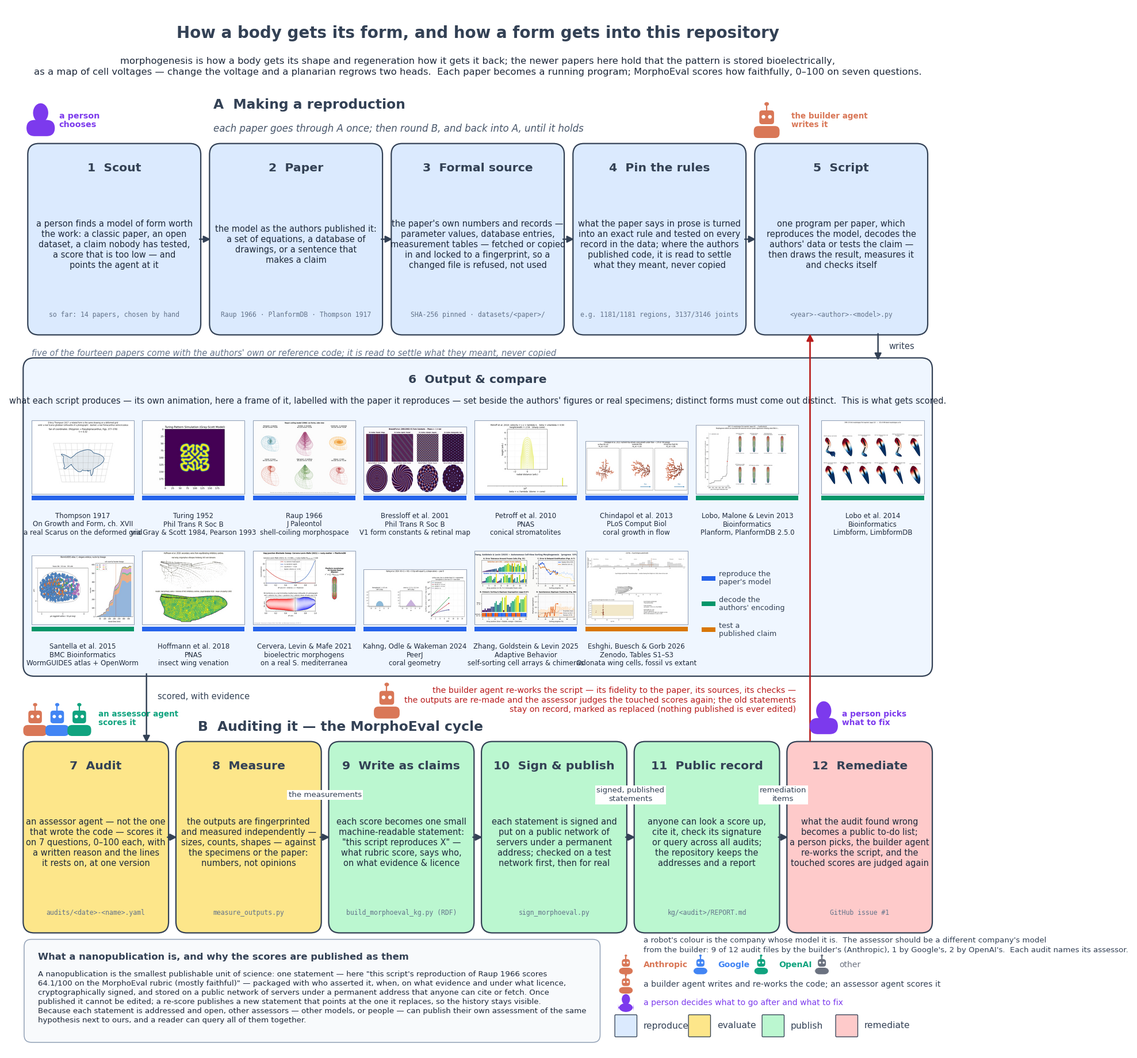
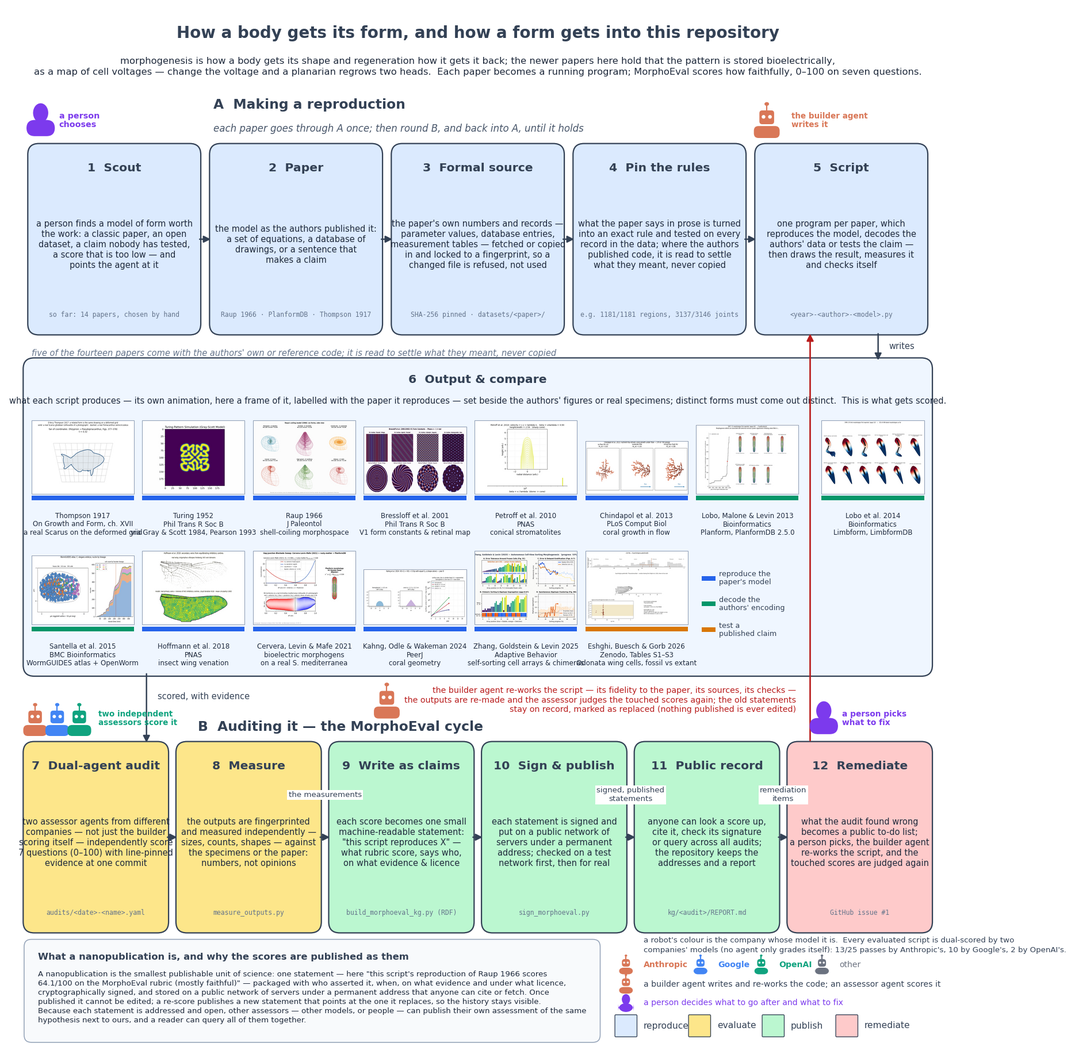
README: include full Zhang et al. (2025) replication findings, datasets, and 14-paper dual-agent pipeline diagram

Changed region(s): [[0.0, 0.0, 0.931, 0.9913], [0.7448, 0.3098, 0.7758, 0.3408], [0.2483, 0.1549, 0.2793, 0.1859]]

diff --git a/README.md b/README.md
@@ -14,23 +14,23 @@ Each script is run directly (`python3 <script>.py`); rendered outputs (PNG/GIF) 
 
 ## Index, by year
 
-| year | model | script | MorphoEval |
+| year | model | script | MorphoEval (primary / 2nd assessor) |
 |---|---|---|---|
-| 1917 | Thompson, transformations: *Scarus* → *Pomacanthus* on real landmarks and outlines | [`thompson/1917-thompson-scarus-pomacanthus.py`](./thompson/1917-thompson-scarus-pomacanthus.py) | 76.6 |
+| 1917 | Thompson, transformations: *Scarus* → *Pomacanthus* on real landmarks and outlines | [`thompson/1917-thompson-scarus-pomacanthus.py`](./thompson/1917-thompson-scarus-pomacanthus.py) | 76.6 / 90.8 |
 | 1917 | Thompson, transformations on a real fish | [`thompson/1917-thompson.py`](./thompson/1917-thompson.py) | — |
-| 1952 | Turing / Gray–Scott reaction–diffusion | [`1952-turing-morpho.py`](./1952-turing-morpho.py) | 52.7 |
-| 1966 | Raup, shell coiling | [`1966-raup.py`](./1966-raup.py), [`create_raup_animations.py`](./create_raup_animations.py) | 64.1 |
+| 1952 | Turing / Gray–Scott reaction–diffusion | [`1952-turing-morpho.py`](./1952-turing-morpho.py) | 52.7 / 40.9 |
+| 1966 | Raup, shell coiling | [`1966-raup.py`](./1966-raup.py), [`create_raup_animations.py`](./create_raup_animations.py) | 64.1 / 79.3 |
 | 2001 | Bressloff et al., V1 Euclidean symmetry-breaking & retino-cortical form constants | [`2001-bressloff-v1-form-constants.py`](./2001-bressloff-v1-form-constants.py) | unevaluated |
 | 2010 | Petroff et al., conical stromatolites | [`2010-petroff-stromatolite.py`](./2010-petroff-stromatolite.py) | unevaluated |
-| 2013 | Chindapol et al., flow-driven coral growth | [`2013-chindapol-coral-flow.py`](./2013-chindapol-coral-flow.py) | 55.5 |
-| 2013 | Lobo, Malone & Levin, Planform planarian morphologies | [`2013-lobo-planform-morphology.py`](./2013-lobo-planform-morphology.py), [`1900-planformDB_parser.py`](./1900-planformDB_parser.py) | 66.5 |
-| 2014 | Lobo et al., Limbform limb morphologies (salamander, frog, crustacean, insect, arachnid) | [`2014-lobo-limbform-morphology.py`](./2014-lobo-limbform-morphology.py) | 71.3 |
-| 2015 | Santella et al., WormGUIDES *C. elegans* embryo atlas + OpenWorm connectome | [`2015-santella-wormguides-celegans.py`](./2015-santella-wormguides-celegans.py) | 70.2 |
-| 2018 | Hoffmann et al., insect wing venation | [`2018-hoffmann-wing-venation.py`](./2018-hoffmann-wing-venation.py) | 77.8 |
-| 2021 | Cervera, Levin & Mafe, bioelectric morphogen antagonism | [`2021-Cervera–Levin–Mafe.py`](./2021-Cervera–Levin–Mafe.py) | 55.6 (independent assessor) |
+| 2013 | Chindapol et al., flow-driven coral growth | [`2013-chindapol-coral-flow.py`](./2013-chindapol-coral-flow.py) | 55.5 / 56.0 |
+| 2013 | Lobo, Malone & Levin, Planform planarian morphologies | [`2013-lobo-planform-morphology.py`](./2013-lobo-planform-morphology.py), [`1900-planformDB_parser.py`](./1900-planformDB_parser.py) | 66.5 / 76.5 |
+| 2014 | Lobo et al., Limbform limb morphologies (salamander, frog, crustacean, insect, arachnid) | [`2014-lobo-limbform-morphology.py`](./2014-lobo-limbform-morphology.py) | 71.3 / 83.6 |
+| 2015 | Santella et al., WormGUIDES *C. elegans* embryo atlas + OpenWorm connectome | [`2015-santella-wormguides-celegans.py`](./2015-santella-wormguides-celegans.py) | 70.2 / 78.7 |
+| 2018 | Hoffmann et al., insect wing venation | [`2018-hoffmann-wing-venation.py`](./2018-hoffmann-wing-venation.py) | 77.8 / 81.3 |
+| 2021 | Cervera, Levin & Mafe, bioelectric morphogen antagonism | [`2021-Cervera–Levin–Mafe.py`](./2021-Cervera–Levin–Mafe.py) | 55.6 / 60.7 |
 | 2024 | Kahng et al., coral colony geometry | [`2024-kahng-coral-geometry.py`](./2024-kahng-coral-geometry.py) | unevaluated |
 | 2025 | Zhang, Goldstein & Levin, autonomous cell-view sorting morphogenesis & chimeric arrays | [`sorting-morphogenesis/`](./sorting-morphogenesis/) | unevaluated |
-| 2026 | Eshghi et al., fossil vs living Odonata wing cells | [`2026-eshghi-odonata-wing-cells.py`](./2026-eshghi-odonata-wing-cells.py) | 76.0 |
+| 2026 | Eshghi et al., fossil vs living Odonata wing cells | [`2026-eshghi-odonata-wing-cells.py`](./2026-eshghi-odonata-wing-cells.py) | 76.0 / 87.3 |
 
 ## The reproductions, best-scoring first
 
@@ -270,6 +270,7 @@ Zhang, Goldstein & Levin's (2025) model of autonomous cell-view sorting morphoge
 ```bash
 python3 sorting-morphogenesis/sorting_morphogenesis.py                  # self-tests + quick replication summary
 python3 sorting-morphogenesis/run_experiments.py --n 100 --reps 15      # full 8-figure suite in sorting-morphogenesis/figures/
+python3 sorting-morphogenesis/run_experiments.py --compare-ab --n 100   # seed-locked paired A/B comparison + CSV
 python3 sorting-morphogenesis/run_experiments.py --gif zhang.gif --gif-only
 ```
 
@@ -277,7 +278,9 @@ python3 sorting-morphogenesis/run_experiments.py --gif zhang.gif --gif-only
 
 *What you see:* top-left, autonomous Selection vs Bubble cell arrays ($n = 36$) sorting around two immovable frozen defects (red outlines) — Selection jumps across the defects to near-zero error while Bubble is blocked locally; bottom-left, a 50/50 Bubble + Selection chimera with duplicate values $1..9$ where equal-valued cells spontaneously segregate by algotype (blue = Bubble, orange = Selection); right, the monotonicity-error trajectory with Delayed Gratification excursions and the algotype aggregation curve rising from the `0.50` random baseline to `~0.72`.
 
-**Reference:** Zhang T, Goldstein A, Levin M (2025). Classical sorting algorithms as a model of morphogenesis: Self-sorting arrays reveal unexpected competencies in a minimal model of basal intelligence. *Adaptive Behavior* 33(1):25–54. [DOI](https://doi.org/10.1177/10597123241269740). Code: [Zhangtaining/cell_research](https://github.com/Zhangtaining/cell_research) (pinned commit `1fd2bd59`).
+*Replication findings ($n = 100$, [`sorting-morphogenesis/README.md`](./sorting-morphogenesis/README.md), reported upstream in [Zhangtaining/cell_research#2](https://github.com/Zhangtaining/cell_research/issues/2)):* all quantitative claims in Sections 4.1–4.4 reproduce — Bubble and Insertion perform the same swap count as top-down ($\binom{n}{2}/2 \approx 2,482$) with **1.55×** and **2.04×** fewer total comparisons+swaps (paper: `1.50×`, `2.03×`); Selection performs **11.05×** more swaps (`1,046.9` vs `94.7`, paper: `~11×`) when `MultiThreadCell.swap()` resets `ideal_position` to `0` on each swap, and **1.18×** more total operations (paper: `1.17×`) when `ideal_position` persists; Selection achieves lower final error on immovable frozen defects (`1.00, 1.95, 2.95` vs `1.80, 3.75, 5.10` for $f=1..3$, Fig. 5C) because its `ideal_position` pointer swaps non-locally across barriers; Insertion avoids halting behind a frozen defect via an explicit prefix-reset rule (`InsertionSortCell.is_enable_to_move` L68–82); Delayed Gratification in Bubble rises monotonically with $f=0..3$ (`0.38 → 0.51` vs traditional `< 0.23`, Fig. 7A); chimeric arrays (`B+S`, `I+S`, `B+I`) peak at `0.635–0.640` algotype aggregation on unique values (Fig. 8A) and stay permanently segregated (`0.698` and `0.661`, Fig. 8D) on duplicate values `1..10`; and opposite-direction chimeras follow the paper's `Bubble > Selection > Insertion` sortedness hierarchy (`B+I = 75.6%`, `B+S = 47.3%`, `I+S = 40.6%`, Figs. 9–10).
+
+**Reference:** Zhang T, Goldstein A, Levin M (2025). Classical sorting algorithms as a model of morphogenesis: Self-sorting arrays reveal unexpected competencies in a minimal model of basal intelligence. *Adaptive Behavior* 33(1):25–54. [DOI](https://doi.org/10.1177/10597123241269740). Code: [Zhangtaining/cell_research](https://github.com/Zhangtaining/cell_research) (pinned commit `1fd2bd59`; replication notes in [issue #2](https://github.com/Zhangtaining/cell_research/issues/2)).
 
 ### [thompson/1917-thompson.py](./thompson/1917-thompson.py)
 
@@ -296,30 +299,30 @@ Thompson-focused notes and dataset curation are in:
 
 [`morphoeval/`](./morphoeval/) is a seven-dimension rubric (model fidelity, specimen match, parameter expressivity, morphometric validation, source traceability, code traceability, reproducibility package; weights sum to 100) applied as a pilot case study to the scripts above, with every score backed by line-pinned evidence at a recorded commit and by measurements taken on the rendered outputs. To prevent conflating faithful code with valid biology, faithfulness (weight 70) is decomposed and reported along two separate axes — **model-implementation fidelity** (`impl.`, weight 30: `model-fidelity` + `parameter-expressivity`) and **biological/empirical validation** (`bio.`, weight 40: `specimen-match` + `morphometric-validation`) — alongside **reproducibility** (`repro.`, weight 30). Scores on `[0, 100]` are **uncalibrated criterion-referenced ratings**, not probabilities ($s = 76$ does not mean $P(\text{faithful}) = 0.76$); when serialized into the governed ProbKnow templates (`pk:LLMClaimAssessment` and `pk:Claim`), `score / 100` in `pk:hasProbability` and `overall / 100` in `pk:weightOfEvidence` are unit-interval rescalings for template conformance. Audits are YAML files under `morphoeval/audits/`. Each score is published as a *nanopublication*: the smallest publishable unit of science — one statement ("this script's reproduction of Raup 1966 scores 64.1/100 on the MorphoEval rubric (mostly faithful)") packaged with who asserted it, when, on what evidence and under what licence, cryptographically signed, and stored on a public network of servers under a permanent address that anyone can cite, fetch or query. Published statements are never edited; a re-score publishes new ones that point at those they replace, so the history stays visible, and other assessors (other models, or people) can publish their own assessment of the same hypothesis next to ours.
 
-How a body gets its form, and how a form gets into the repository. Two lines under the title say what morphogenesis is and that the newer papers hold the pattern to be stored bioelectrically. Tier A: a person scouts — picks a paper, dataset or claim worth the work and points the agent at it — then paper → its formal source → rules pinned and verified on the data → script. Box 6, between the tiers, is what the scripts produce: the reproductions' own animations (playing), each labelled with its paper and colour-coded by what the script does with it (reproduce the paper's model from its equations, decode the authors' formal encoding, or test a published claim), set beside the authors' figures or specimens — this is what gets scored. Tier B: the audit cycle, from the reviewer's scores to signed public statements, to a person who reads them and decides what to fix next; the builder agent then re-works the script — its fidelity to the paper, its sources, its checks — and the fix runs back up through the outputs into the script. Purple figures mark where people decide; the robots are the builder agent (writes and re-works the code) and the assessor agents (score it); a robot's colour is the company whose model it is, read from the audits — box 7 shows Anthropic's robot (`claude-fable-5-1`) for the nine primary builder-assessed audits, OpenAI's (`gpt-5.6-sol`) for the two independent Cervera–Levin–Mafe audits, and Google's (`gemini-4-argon`) for the five-script blinded second-assessor sample (the Mermaid source is in [`morphoeval/README.md`](./morphoeval/README.md#the-cycle)):
+How a body gets its form, and how a form gets into the repository. Two lines under the title say what morphogenesis is and that the newer papers hold the pattern to be stored bioelectrically. Tier A: a person scouts — picks a paper, dataset or claim worth the work and points the agent at it — then paper → its formal source → rules pinned and verified on the data → script. Box 6, between the tiers, is what the scripts produce: the reproductions' own animations (playing), each labelled with its paper and colour-coded by what the script does with it (reproduce the paper's model from its equations, decode the authors' formal encoding, or test a published claim), set beside the authors' figures or specimens — this is what gets scored. Tier B: the audit cycle, from the reviewer's scores to signed public statements, to a person who reads them and decides what to fix next; the builder agent then re-works the script — its fidelity to the paper, its sources, its checks — and the fix runs back up through the outputs into the script. Purple figures mark where people decide; the robots are the builder agent (writes and re-works the code) and the assessor agents (score it); a robot's colour is the company whose model it is, read from the audits — box 7 ("7 Dual-agent audit") shows Anthropic's robot (`claude-fable-5-1`), Google's (`gemini-4-argon`), and OpenAI's (`gpt-5.6-sol`), and **every active evaluated script (10/10) is dual-scored across two companies' models** (13/25 passes by Anthropic, 10/25 by Google, 2/25 by OpenAI) so that no script relies solely on its builder grading itself (the Mermaid source is in [`morphoeval/README.md`](./morphoeval/README.md#the-cycle)):
 
 ![How a reproduction is made and how MorphoEval scores it](./docs/media/morphoeval_pipeline.gif)
 
-Where a dimension is structurally non-applicable (`not_applicable`), substituting baseline `50` shrinks scores linearly toward `50` ($\bar{s}_{\text{pad}} = (1-\alpha)\bar{s}_{\text{app}} + 50\alpha$); the table therefore reports both the weight-renormalised applicable-only mean (`app.`) and the baseline-50 padded score (`pad.`), plus the blinded second-assessor score (`gemini-4-argon`) where evaluated:
+Where a dimension is structurally non-applicable (`not_applicable`), substituting baseline `50` shrinks scores linearly toward `50` ($\bar{s}_{\text{pad}} = (1-\alpha)\bar{s}_{\text{app}} + 50\alpha$); the table therefore reports both the weight-renormalised applicable-only mean (`app.`) and the baseline-50 padded score (`pad.`), plus the second-assessor score (`gemini-4-argon`, Google) and two-assessor panel mean across all 10 active evaluated scripts:
 
-| simulation | checkpoint | primary assessor | impl. (30) | bio. (40) | repro. (30) | primary app. / **pad.** | blinded 2nd assessor (`gemini-4-argon`) app. / **pad.** |
-|---|---|---|---:|---:|---:|---:|---:|
-| Hoffmann–Donoughe wing venation (`2018-hoffmann-wing-venation.py`) | f3fe478, audit 2026-10-13 | Claude Fable 5.1 | 81.7 | 80.0 | 71.3 | 77.8 / **77.8** | — |
-| Thompson *Scarus* → *Pomacanthus* on real landmarks and outlines (`thompson/1917-thompson-scarus-pomacanthus.py`) | 232e8f8, audit 2026-10-17-thompson (re-score of 2026-10-16: 70.2) | Claude Fable 5.1 | 70.3 | 77.3 | 82.0 | 76.6 / **76.6** | 90.8 / **90.8** |
-| Odonata wing cells, fossil vs extant (`2026-eshghi-odonata-wing-cells.py`) | fbbcaf6, audit 2026-10-14-odonata | Claude Fable 5.1 | 63.3 (`70.0` app.) | 85.0 | 78.0 | 78.9 / **76.0** | 91.4 / **87.3** |
-| Limbform limb morphologies (`2014-lobo-limbform-morphology.py`) | 747c57f, audit 2026-10-14-limbform | Claude Fable 5.1 | 81.7 | 61.3 | 74.3 | 71.3 / **71.3** | 83.6 / **83.6** |
-| WormGUIDES *C. elegans* embryo atlas + connectome (`2015-celegans-embryogenesis.py`) | f39a409, audit 2026-10-16-celegans (re-score of 2026-10-15: 67.7) | Claude Fable 5.1 | 70.0 (`80.0` app.) | 64.4 | 78.0 | 72.4 / **70.2** | — |
-| Planform planarian morphology (`2013-lobo-planform-morphology.py`) | 161f269, audit 2026-10-14 | Claude Fable 5.1 | 81.7 | 55.0 | 66.7 | 66.5 / **66.5** | — |
-| Raup shell coiling (`create_raup_animations.py`) | ba6fd20, audit 2026-10-17-raup (re-score of 2026-10-13: 37.3) | Claude Fable 5.1 | 76.7 | 45.0 | 77.0 | 64.1 / **64.1** | 79.3 / **79.3** |
-| Cervera–Levin–Mafe bioelectric synthesis (`2021-Cervera–Levin–Mafe.py`) | a0d6848, audit 2026-10-17-cervera-v2 (was 44.9 at e71ca55) | **GPT‑5.6 Sol (OpenAI)** | 49.3 | 44.3 | 76.9 | 55.6 / **55.6** | — |
-| Chindapol coral flow (`2013-chindapol-coral-flow.py`) | f3fe478, audit 2026-10-13 | Claude Fable 5.1 | 53.3 | 43.8 | 70.0 | 55.5 / **55.5** | — |
-| Gray–Scott (Turing) (`1952-turing-morpho.py`) | f3fe478, audit 2026-10-13 | Claude Fable 5.1 | 75.0 | 38.8 (`20.0` app.) | 49.0 | 53.6 / **52.7** | 37.8 / **40.9** |
-| Planform animation (`1900-planformDB_parser.py`), superseded | f3fe478, audit 2026-10-13 | Claude Fable 5.1 | 9.3 | 2.5 | 36.3 | 14.7 / ~~14.7~~ | — |
-| Bressloff V1 form constants (`2001-bressloff-v1-form-constants.py`), Petroff stromatolite (`2010-petroff-stromatolite.py`), Kahng coral (`2024-kahng-coral-geometry.py`), Zhang sorting morphogenesis (`sorting-morphogenesis/`), Thompson demo (`thompson/1917-thompson.py`) | — | — | — | — | — | — | *unevaluated* |
+| simulation | checkpoint | primary assessor | impl. (30) | bio. (40) | repro. (30) | primary app. / **pad.** | 2nd assessor (`gemini-4-argon`) app. / **pad.** | panel mean **pad.** |
+|---|---|---|---:|---:|---:|---:|---:|---:|
+| Hoffmann–Donoughe wing venation (`2018-hoffmann-wing-venation.py`) | f3fe478, audit 2026-10-13 | Claude Fable 5.1 | 81.7 | 80.0 | 71.3 | 77.8 / **77.8** | 81.3 / **81.3** | **79.5** |
+| Thompson *Scarus* → *Pomacanthus* on real landmarks and outlines (`thompson/1917-thompson-scarus-pomacanthus.py`) | 232e8f8, audit 2026-10-17-thompson (re-score of 2026-10-16: 70.2) | Claude Fable 5.1 | 70.3 | 77.3 | 82.0 | 76.6 / **76.6** | 90.8 / **90.8** | **83.7** |
+| Odonata wing cells, fossil vs extant (`2026-eshghi-odonata-wing-cells.py`) | fbbcaf6, audit 2026-10-14-odonata | Claude Fable 5.1 | 63.3 (`70.0` app.) | 85.0 | 78.0 | 78.9 / **76.0** | 91.4 / **87.3** | **81.7** |
+| Limbform limb morphologies (`2014-lobo-limbform-morphology.py`) | 747c57f, audit 2026-10-14-limbform | Claude Fable 5.1 | 81.7 | 61.3 | 74.3 | 71.3 / **71.3** | 83.6 / **83.6** | **77.5** |
+| WormGUIDES *C. elegans* embryo atlas + connectome (`2015-santella-wormguides-celegans.py`) | f39a409, audit 2026-10-16-celegans (re-score of 2026-10-15: 67.7) | Claude Fable 5.1 | 70.0 (`80.0` app.) | 64.4 | 78.0 | 72.4 / **70.2** | 81.9 / **78.7** | **74.4** |
+| Planform planarian morphology (`2013-lobo-planform-morphology.py`) | 161f269, audit 2026-10-14 | Claude Fable 5.1 | 81.7 | 55.0 | 66.7 | 66.5 / **66.5** | 76.5 / **76.5** | **71.5** |
+| Raup shell coiling (`create_raup_animations.py`) | ba6fd20, audit 2026-10-17-raup (re-score of 2026-10-13: 37.3) | Claude Fable 5.1 | 76.7 | 45.0 | 77.0 | 64.1 / **64.1** | 79.3 / **79.3** | **71.7** |
+| Cervera–Levin–Mafe bioelectric synthesis (`2021-Cervera–Levin–Mafe.py`) | a0d6848, audit 2026-10-17-cervera-v2 (was 44.9 at e71ca55) | **GPT‑5.6 Sol (OpenAI)** | 49.3 | 44.3 | 76.9 | 55.6 / **55.6** | 60.7 / **60.7** | **58.1** |
+| Chindapol coral flow (`2013-chindapol-coral-flow.py`) | f3fe478, audit 2026-10-13 | Claude Fable 5.1 | 53.3 | 43.8 | 70.0 | 55.5 / **55.5** | 56.0 / **56.0** | **55.7** |
+| Gray–Scott (Turing) (`1952-turing-morpho.py`) | f3fe478, audit 2026-10-13 | Claude Fable 5.1 | 75.0 | 38.8 (`20.0` app.) | 49.0 | 53.6 / **52.7** | 37.8 / **40.9** | **46.8** |
+| Planform animation (`1900-planformDB_parser.py`), superseded | f3fe478, audit 2026-10-13 | Claude Fable 5.1 | 9.3 | 2.5 | 36.3 | 14.7 / ~~14.7~~ | — | — |
+| Bressloff V1 form constants (`2001-bressloff-v1-form-constants.py`), Petroff stromatolite (`2010-petroff-stromatolite.py`), Kahng coral (`2024-kahng-coral-geometry.py`), Zhang sorting morphogenesis (`sorting-morphogenesis/`), Thompson demo (`thompson/1917-thompson.py`) | — | — | — | — | — | — | — | *unevaluated* |
 
-Across the five scripts in the blinded second-assessor sample (`2026-10-17-blinded-sample-audit.yaml`, `gemini-4-argon`, Google), rank-order agreement with the primary assessor (`claude-fable-5-1`, Anthropic) on overall scores is exact (Spearman $\rho = 1.00$, Kendall $\tau = 1.00$, $p = 0.0167$; dimension-level $\rho = 0.823$ across all 35 dimension pairs, mean absolute difference $13.7$ points), while the blinded passes surfaced concrete defects the builder had missed (including a 65-character SHA-256 typo in `2014-lobo-limbform-morphology.py`).
+Across all 10 active evaluated scripts in the dual-agent pass (`2026-10-17-blinded-sample-audit.yaml`, `gemini-4-argon`, Google), rank-order agreement with the primary assessors (`claude-fable-5-1`, Anthropic on 9 scripts; `gpt-5.6-sol`, OpenAI on `2021-Cervera–Levin–Mafe.py`) is strong (Spearman $\rho = 0.891$, Kendall $\tau = 0.778$, Pearson $r = 0.920$ on padded scores; $\rho = 0.903$ on applicable-only scores; and exact $\rho = 1.00$, $\tau = 1.00$ on the initial 5-script strictly blinded subset; dimension-level $\rho = 0.796$, $r = 0.813$ across all 70 dimension pairs, mean absolute difference $10.4$ points), while the independent passes surfaced concrete defects the builder had missed (including a 65-character SHA-256 typo in `2014-lobo-limbform-morphology.py`).
 
-191 nanopubs are on the production network, of which 91 are the current heads of their primary version chains (46 from 2026-10-13, 9 from the 2026-10-14 planarian re-score, 9 from the 2026-10-14 Odonata audit, 10 from the Limbform audit, 9 from the 2026-10-16 C. elegans re-score, 9 from the 2026-10-17 Thompson re-score, 9 from the 2026-10-17 Raup re-score, 9 from the 2026-10-17 Cervera–Levin–Mafe re-score, which supersedes the 9 of the first Cervera audit the same day — both by OpenAI's GPT‑5.6 Sol — and 54 conformant re-issues of 2026-10-16 that `npx:supersedes` the pre-template versions), plus 40 signed second-assessor nanopubs in `morphoeval/kg/2026-10-17-blinded-sample-audit/signed/`; URIs and version histories are in `morphoeval/kg/<audit>/published.json`. Since 2026-10-15 the nanopubs follow the governed templates of the [ProbKnow Space](https://w3id.org/spaces/probknow) (template links in pubinfo, full timestamps); the current rubric nanopub is https://w3id.org/np/RAhBMChdpmgS_yBfy8cfYXpfKktqlUD72A9bxZzvWDkYM (superseding the original RAjd9dIu…), and every nanopub that was still the head of its chain on 2026-10-16 has been re-issued in that shape with unchanged scores and evidence. Remediation is tracked in [morpholib#1](https://github.com/fractastical/morpholib/issues/1); the data-format review for the ProbKnow template is [project-delphi-ontology#12](https://github.com/fractastical/project-delphi-ontology/issues/12). MorphoEval is the simulation-faithfulness sibling of BioEval ([10.5281/zenodo.20567719](https://doi.org/10.5281/zenodo.20567719)) and NeuroEval ([10.5281/zenodo.20622878](https://doi.org/10.5281/zenodo.20622878)). Full workflow, tooling notes and the rubric text: [`morphoeval/README.md`](./morphoeval/README.md).
+191 nanopubs are on the production network, of which 91 are the current heads of their primary version chains (46 from 2026-10-13, 9 from the 2026-10-14 planarian re-score, 9 from the 2026-10-14 Odonata audit, 10 from the Limbform audit, 9 from the 2026-10-16 C. elegans re-score, 9 from the 2026-10-17 Thompson re-score, 9 from the 2026-10-17 Raup re-score, 9 from the 2026-10-17 Cervera–Levin–Mafe re-score, which supersedes the 9 of the first Cervera audit the same day — both by OpenAI's GPT‑5.6 Sol — and 54 conformant re-issues of 2026-10-16 that `npx:supersedes` the pre-template versions), plus 80 signed second-assessor nanopubs in `morphoeval/kg/2026-10-17-blinded-sample-audit/signed/`; URIs and version histories are in `morphoeval/kg/<audit>/published.json`. Since 2026-10-15 the nanopubs follow the governed templates of the [ProbKnow Space](https://w3id.org/spaces/probknow) (template links in pubinfo, full timestamps); the current rubric nanopub is https://w3id.org/np/RAhBMChdpmgS_yBfy8cfYXpfKktqlUD72A9bxZzvWDkYM (superseding the original RAjd9dIu…), and every nanopub that was still the head of its chain on 2026-10-16 has been re-issued in that shape with unchanged scores and evidence. Remediation is tracked in [morpholib#1](https://github.com/fractastical/morpholib/issues/1); the data-format review for the ProbKnow template is [project-delphi-ontology#12](https://github.com/fractastical/project-delphi-ontology/issues/12). MorphoEval is the simulation-faithfulness sibling of BioEval ([10.5281/zenodo.20567719](https://doi.org/10.5281/zenodo.20567719)) and NeuroEval ([10.5281/zenodo.20622878](https://doi.org/10.5281/zenodo.20622878)). Full workflow, tooling notes and the rubric text: [`morphoeval/README.md`](./morphoeval/README.md).
 
 ## Datasets
 
@@ -328,6 +331,8 @@ Across the five scripts in the blinded second-assessor sample (`2026-10-17-blind
 - [`datasets/planform/`](./datasets/planform/): BibTeX for the Planform papers and `planformDB.sha256`, the SHA-256 of the `planformDB_2.5.0.edb` the decoder was verified on (744,448 bytes); the `.edb` itself is not vendored (it ships with Planform), and `2013-lobo-planform-morphology.py` checks the hash of whatever file it is given, warning on a mismatch or refusing it with `--strict-db`.
 - LimbformDB 2.1.0 (`.ldb`) is likewise not vendored; `2014-lobo-limbform-morphology.py --download` fetches it from the Lobo lab into the git-ignored `.limbform_cache/` and verifies its SHA-256.
 - [`datasets/celegans/`](./datasets/celegans/): SHA-256 manifest of the 416 WormGUIDES / c302 files (pinned commits) that `2015-santella-wormguides-celegans.py --download` fetches into the git-ignored `.celegans_cache/`, with a README on sources, licences, the calibration assumption and the literature anchors.
+- [`datasets/bressloff/`](./datasets/bressloff/): SHA-256-pinned reference calibration fixtures (`paper-calibration.json`, `rule-2011-floquet.json`, `driven-neural-fields-registry.json`) and BibTeX citations for Bressloff et al. (2001/2002) and Rule, Stoffregen & Ermentrout (2011).
+- [`sorting-morphogenesis/catalog.json`](./sorting-morphogenesis/catalog.json): 4-tier claim-boundary catalog (`reported`, `reconstruction`, `transfer_boundary`, `does_not_claim`) and paired A/B lane definitions for Zhang, Goldstein & Levin (2025).
 - [`datasets/frog_embryo_data_processed/`](./datasets/frog_embryo_data_processed/): per-embryo masks (`*_mask.npz`, one folder per imaging zoom) used by the wave-vector pipeline's detection summary below.
 
 ## Analysis tools

diff --git a/morphoeval/README.md b/morphoeval/README.md
@@ -55,8 +55,8 @@ code and the **assessor** that scores it. For the first nine audits the same mod
 scored across two rounds by a model from another company (`gpt-5.6-sol`, OpenAI), given the rubric, the script and the
 fixtures and no opinions, and it found defects the builder had not — an unused morphospace axis, a CSV
 that doubles the simulated displacement, a wrong PMID (44.9), and after remediation (55.6) two further threshold/legend bugs the builder had
-introduced and overlooked. In addition, a five-script blinded second-assessor sample (`2026-10-17-blinded-sample-audit.yaml`) was scored by `gemini-4-argon` (Google) on identical script versions (`thompson`, `odonata`, `limbform`, `raup`, `turing`), showing exact rank-order concordance on overall scores (Spearman $\rho = 1.00$, Kendall $\tau = 1.00$; dimension-level $\rho = 0.823$ across 35 pairs, $\text{MAD} = 13.7$ points) while surfacing concrete defects the builder had missed (e.g. a 65-character SHA-256 typo in `2014-lobo-limbform-morphology.py`). The graph takes any assessor's nanopubs on the same
-hypotheses; scoring the remaining scripts the same way is tracked in
+introduced and overlooked. In addition, a complete 10-script second-assessor pass (`2026-10-17-blinded-sample-audit.yaml`, 80 signed nanopubs) was scored by `gemini-4-argon` (Google) across all 10 active evaluated scripts so that **no script relies solely on its builder grading itself**, showing strong rank-order concordance on overall scores across all 10 scripts (Spearman $\rho = 0.891$, Kendall $\tau = 0.778$, Pearson $r = 0.920$ on padded scores; $\rho = 0.903$ on applicable-only scores; and exact $\rho = 1.00$, $\tau = 1.00$ on the initial 5-script strictly blinded subset; dimension-level $\rho = 0.796$, $r = 0.813$ across all 70 pairs, $\text{MAD} = 10.4$ points) while surfacing concrete defects the builder had missed (e.g. a 65-character SHA-256 typo in `2014-lobo-limbform-morphology.py`). The graph takes any assessor's nanopubs on the same
+hypotheses; further remediation is tracked in
 [morpholib#1](https://github.com/fractastical/morpholib/issues/1). Each pass pins a commit; scores are 0–100 uncalibrated ratings per dimension with a weighted mean overall; published
 nanopubs are immutable and re-scores supersede them. The same figure as an image (for the PDF report
 and anything that cannot render Mermaid) is `docs/media/morphoeval_pipeline.png`, drawn by
@@ -86,7 +86,7 @@ flowchart TB
 
     subgraph B["B &nbsp;Auditing it — the MorphoEval cycle"]
         direction LR
-        AU["🤖 assessor · 7 Audit<br/>a different agent from the builder scores the script<br/>on 7 questions, 0–100 each, with a written reason<br/>and the lines of code it rests on, at one version<br/><small>audits/&lt;date&gt;-&lt;name&gt;.yaml</small>"]:::eval
+        AU["🤖🤖 assessors · 7 Dual-agent audit<br/>two assessor agents from different companies —<br/>not just the builder scoring itself — independently score<br/>7 questions (0–100) with line-pinned evidence at one commit<br/><small>audits/&lt;date&gt;-&lt;name&gt;.yaml</small>"]:::eval
         M["8 Measure<br/>outputs hashed and measured independently<br/>against specimens or the paper:<br/>numbers, not opinions<br/><small>measure_outputs.py</small>"]:::eval
         BG["9 Write as claims<br/>each score becomes one small machine-readable<br/>statement: 'this script reproduces X' — what rubric score,<br/>says who, on what evidence, under what licence<br/><small>build_morphoeval_kg.py (RDF, ProbKnow templates)</small>"]:::pub
         PU["10 Sign &amp; publish<br/>each statement is signed and put on a public<br/>network of servers under a permanent address;<br/>test network first, then for real<br/><small>sign_morphoeval.py</small>"]:::pub
@@ -402,7 +402,7 @@ Tracked in [morpholib#1](https://github.com/fractastical/morpholib/issues/1). Fa
 | Thompson *Scarus* → *Pomacanthus* (`thompson/1917-thompson-scarus-pomacanthus.py`) | 232e8f8, audit 2026-10-17-thompson (was 70.2) | Claude Fable 5.1 | 70.3 | 77.3 | 82.0 | 76.6 | **76.6** |
 | Odonata wing cells, fossil vs extant (`2026-eshghi-odonata-wing-cells.py`) | fbbcaf6, audit 2026-10-14-odonata | Claude Fable 5.1 | 63.3 (`70.0` app.) | 85.0 | 78.0 | 78.9 | **76.0** |
 | LimbformDB limb morphologies (`2014-lobo-limbform-morphology.py`) | 747c57f, audit 2026-10-14-limbform | Claude Fable 5.1 | 81.7 | 61.3 | 74.3 | 71.3 | **71.3** |
-| WormGUIDES *C. elegans* embryo atlas (`2015-celegans-embryogenesis.py`) | f39a409, audit 2026-10-16-celegans (was 67.7) | Claude Fable 5.1 | 70.0 (`80.0` app.) | 64.4 | 78.0 | 72.4 | **70.2** |
+| WormGUIDES *C. elegans* embryo atlas (`2015-santella-wormguides-celegans.py`) | f39a409, audit 2026-10-16-celegans (was 67.7) | Claude Fable 5.1 | 70.0 (`80.0` app.) | 64.4 | 78.0 | 72.4 | **70.2** |
 | PlanformDB planarian morphology (`2013-lobo-planform-morphology.py`) | 161f269, audit 2026-10-14 | Claude Fable 5.1 | 81.7 | 55.0 | 66.7 | 66.5 | **66.5** |
 | Raup shell coiling (`create_raup_animations.py`) | ba6fd20, audit 2026-10-17-raup (was 37.3) | Claude Fable 5.1 | 76.7 | 45.0 | 77.0 | 64.1 | **64.1** |
 | Cervera–Levin–Mafe bioelectric synthesis (`2021-Cervera–Levin–Mafe.py`) | a0d6848, audit 2026-10-17-cervera-v2 (was 44.9 at e71ca55) | **GPT‑5.6 Sol (OpenAI)** | 49.3 | 44.3 | 76.9 | 55.6 | **55.6** |
@@ -411,14 +411,19 @@ Tracked in [morpholib#1](https://github.com/fractastical/morpholib/issues/1). Fa
 | ~~PlanformDB planarian animation (`1900-planformDB_parser.py`)~~ superseded | f3fe478, audit 2026-10-13 | Claude Fable 5.1 | 9.3 | 2.5 | 36.3 | 14.7 | ~~14.7~~ |
 | Petroff stromatolite (`2010-petroff-stromatolite.py`), Kahng coral (`2024-kahng-coral-geometry.py`), Thompson demo (`thompson/1917-thompson.py`) | — | — | — | — | — | — | *unevaluated* |
 
-### Blinded second-assessor sample (`2026-10-17-blinded-sample-audit.yaml`, `role: second_assessor`, `gemini-4-argon`, Google)
+### Complete 10-script dual-agent second-assessor pass (`2026-10-17-blinded-sample-audit.yaml`, `role: second_assessor`, `gemini-4-argon`, Google)
 
-Five scripts previously scored by `claude-fable-5-1` were re-scored under a strictly blinded protocol at commit `5659d5e` (identical script files to the primary checkpoints). Rank-order agreement on overall scores is exact (Spearman $\rho = 1.00$, Kendall $\tau = 1.00$, $p = 0.0167$; Pearson $r = 0.947$; dimension-level Spearman $\rho = 0.823$ across all 35 dimension pairs, mean signed offset $+7.1$ pts, $\text{MAD} = 13.7$ pts). The 40 signed `pk:LLMClaimAssessment` nanopublications are stored in `morphoeval/kg/2026-10-17-blinded-sample-audit/signed/`.
+All 10 active evaluated scripts were independently scored by `gemini-4-argon` (Google) at commit `5659d5e` so that every evaluated script is dual-scored across two model providers (9 paired with `claude-fable-5-1`, Anthropic; 1 paired with `gpt-5.6-sol`, OpenAI). Across all 10 scripts, rank-order agreement on overall scores is strong (Spearman $\rho = 0.891$, Kendall $\tau = 0.778$, Pearson $r = 0.920$ on padded scores; $\rho = 0.903$ on applicable-only scores; and exact $\rho = 1.00$, $\tau = 1.00$ on the initial 5-script strictly blinded subset; dimension-level Spearman $\rho = 0.796$, Pearson $r = 0.813$ across all 70 dimension pairs, mean signed offset $+6.5$ pts, $\text{MAD} = 10.4$ pts). The 80 signed `pk:LLMClaimAssessment` nanopublications are stored in `morphoeval/kg/2026-10-17-blinded-sample-audit/signed/`.
 
-| simulation | primary (`claude-fable-5-1`) app. / **pad.** | blinded (`gemini-4-argon`) impl. (30) | blinded bio. (40) | blinded repro. (30) | blinded app. / **pad.** | $\Delta$ (pad.) |
-|---|---:|---:|---:|---:|---:|---:|
-| `thompson/1917-thompson-scarus-pomacanthus.py` | 76.6 / **76.6** | 90.0 | 89.8 | 93.0 | 90.8 / **90.8** | +14.2 |
-| `2026-eshghi-odonata-wing-cells.py` | 78.9 / **76.0** | 75.3 (`88.0` app.) | 93.5 | 91.0 | 91.4 / **87.3** | +11.3 |
-| `2014-lobo-limbform-morphology.py` | 71.3 / **71.3** | 86.7 | 77.0 | 89.3 | 83.6 / **83.6** | +12.3 |
-| `create_raup_animations.py` | 64.1 / **64.1** | 86.0 | 68.5 | 86.4 | 79.3 / **79.3** | +15.2 |
-| `1952-turing-morpho.py` | 53.6 / **52.7** | 57.0 | 33.1 (`5.0` app.) | 35.0 | 37.8 / **40.9** | −11.9 |
+| simulation | primary (`claude-fable-5-1` / `gpt-5.6-sol`†) app. / **pad.** | 2nd assessor (`gemini-4-argon`) impl. (30) | 2nd bio. (40) | 2nd repro. (30) | 2nd assessor app. / **pad.** | $\Delta$ (pad.) | panel mean **pad.** |
+|---|---:|---:|---:|---:|---:|---:|---:|
+| `2018-hoffmann-wing-venation.py` | 77.8 / **77.8** | 77.3 | 84.6 | 80.7 | 81.3 / **81.3** | +3.5 | **79.5** |
+| `thompson/1917-thompson-scarus-pomacanthus.py` | 76.6 / **76.6** | 90.0 | 89.8 | 93.0 | 90.8 / **90.8** | +14.2 | **83.7** |
+| `2026-eshghi-odonata-wing-cells.py` | 78.9 / **76.0** | 75.3 (`88.0` app.) | 93.5 | 91.0 | 91.4 / **87.3** | +11.3 | **81.7** |
+| `2014-lobo-limbform-morphology.py` | 71.3 / **71.3** | 86.7 | 77.0 | 89.3 | 83.6 / **83.6** | +12.3 | **77.5** |
+| `2015-santella-wormguides-celegans.py` | 72.4 / **70.2** | 72.7 (`84.0` app.) | 77.0 | 86.9 | 81.9 / **78.7** | +8.5 | **74.4** |
+| `2013-lobo-planform-morphology.py` | 66.5 / **66.5** | 84.0 | 67.3 | 81.4 | 76.5 / **76.5** | +10.1 | **71.5** |
+| `create_raup_animations.py` | 64.1 / **64.1** | 86.0 | 68.5 | 86.4 | 79.3 / **79.3** | +15.2 | **71.7** |
+| `2021-Cervera–Levin–Mafe.py`† | 55.6 / **55.6** | 54.0 | 50.2 | 81.6 | 60.7 / **60.7** | +5.1 | **58.1** |
+| `2013-chindapol-coral-flow.py` | 55.5 / **55.5** | 49.3 | 44.3 | 78.3 | 56.0 / **56.0** | +0.5 | **55.7** |
+| `1952-turing-morpho.py` | 53.6 / **52.7** | 57.0 | 33.1 (`5.0` app.) | 35.0 | 37.8 / **40.9** | −11.9 | **46.8** |
